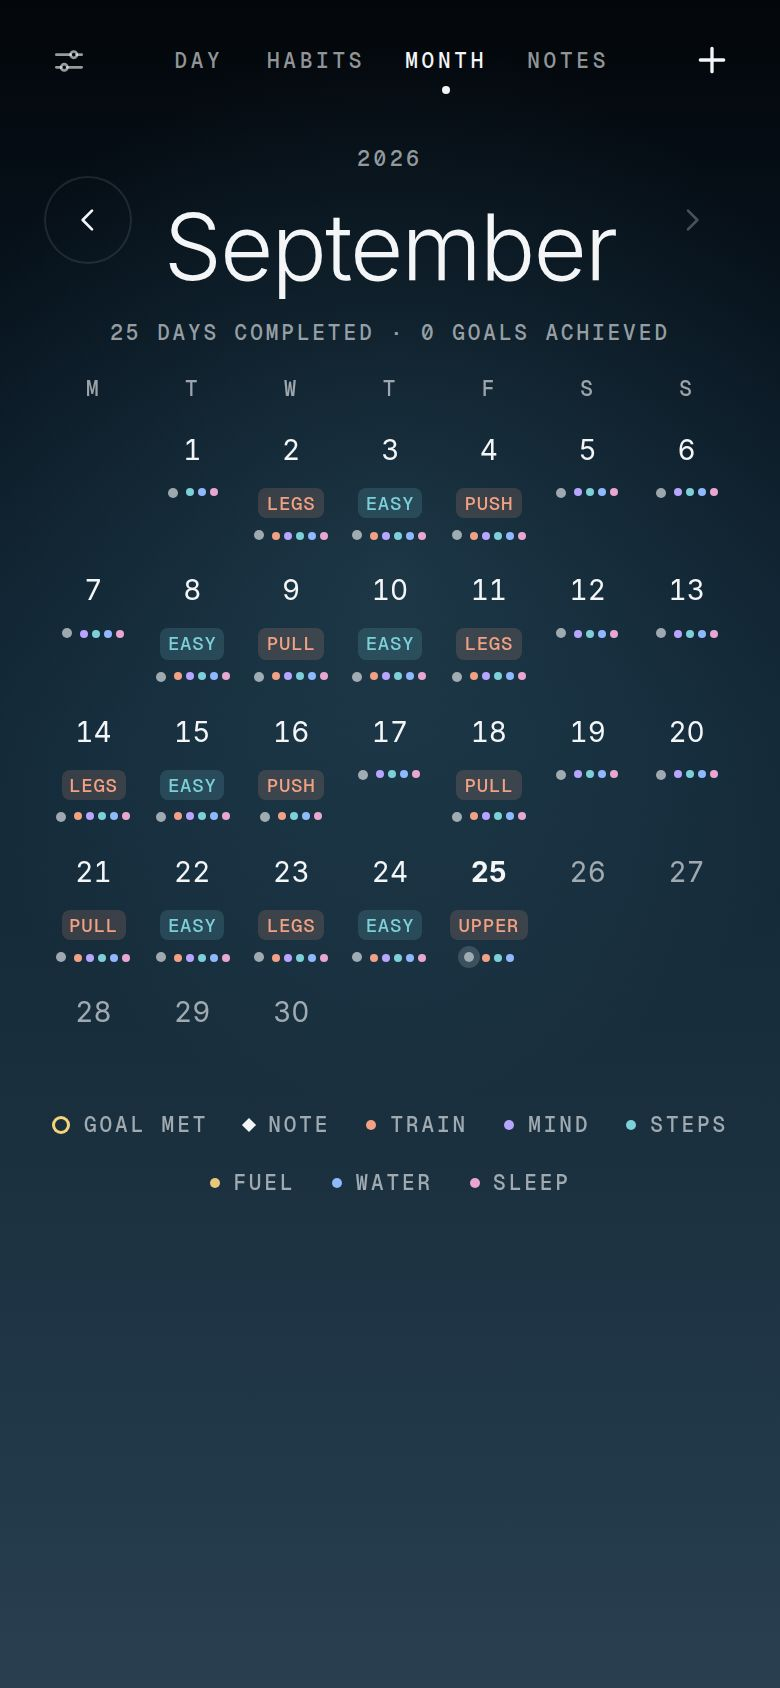
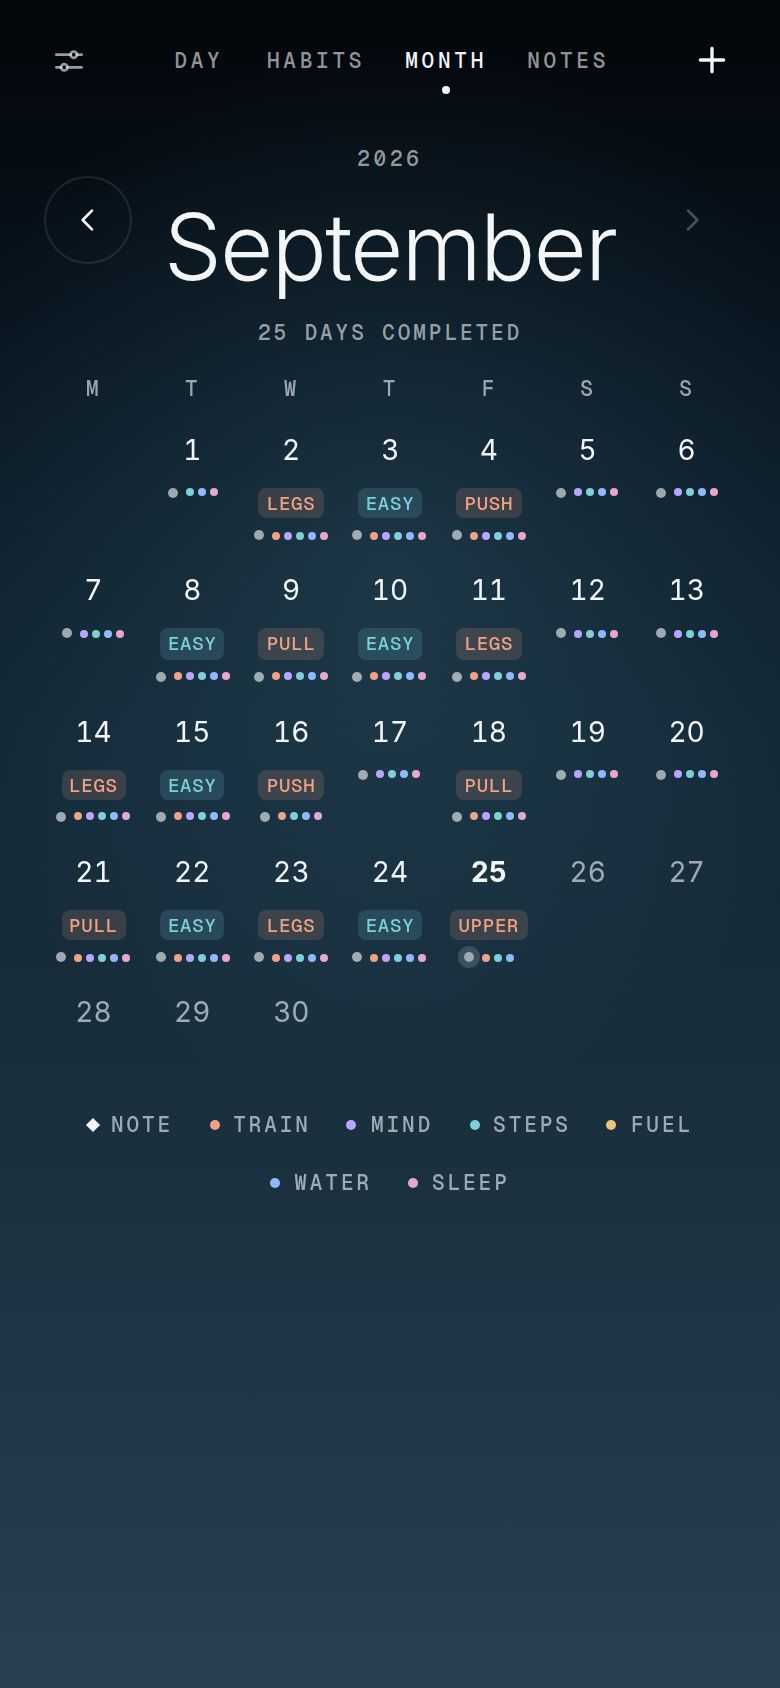
Cadence: goals met come off the calendar
No gold ring, no key entry, no count in the caption and no section on
the day sheet. Goals stay on the habits screen.

Claude-Session: https://claude.ai/code/session_014vD4rMjGhSSa8Ybsy1Zmaq

diff --git a/cadence/index.html b/cadence/index.html
@@ -379,14 +379,11 @@ textarea.cd-field { min-height: 110px; resize: vertical; }
 
 /* ── the calendar's important things ── */
 .cd-mc { position: relative; }
-/* A goal met rings the date in gold; the workout rides under it by name;
-   an important note is a small diamond in the corner. Three marks, three
-   different shapes, so none of them has to be read to be told apart. */
+/* The workout rides under the date by name; an important note is a
+   small diamond in the corner. Two marks, two shapes. */
 .cd-mc b { display: grid; place-items: center; width: 26px; height: 26px; border-radius: 50%; }
-.cd-mc.is-goal b { box-shadow: inset 0 0 0 1.5px var(--gold), 0 0 12px rgba(245, 211, 122, .45); }
 .cd-mc.has-note::after { content: ""; position: absolute; top: 5px; right: 6px; width: 5px; height: 5px; background: var(--ink); transform: rotate(45deg); }
 .cd-mw { max-width: calc(100% - 4px); overflow: hidden; text-overflow: ellipsis; white-space: nowrap; padding: 2px 4px; border-radius: 4px; font: 500 9.5px/1.2 var(--mono); letter-spacing: .04em; text-transform: uppercase; color: var(--kc); background: color-mix(in srgb, var(--kc) 16%, transparent); }
-.cd-legend i.is-ring { background: none; box-shadow: inset 0 0 0 1.5px var(--gold); width: 9px; height: 9px; }
 .cd-legend i.is-dia { border-radius: 0; background: var(--ink); transform: rotate(45deg); }
 
 /* ── notes: a line to a day, not a document ── */
@@ -411,7 +408,6 @@ textarea.cd-field { min-height: 110px; resize: vertical; }
 .cd-nstrip { display: flex; justify-content: center; gap: 6px; margin-top: 22px; }
 .cd-nstrip i { width: 5px; height: 5px; border-radius: 50%; background: var(--nil); }
 .cd-nstrip i.is-on { background: var(--ink); box-shadow: 0 0 6px rgba(243, 245, 247, .5); }
-.cd-dl-gold li > i { background: var(--gold); }
 
 /* ── toast ── */
 .cd-toast {
@@ -1545,7 +1541,6 @@ textarea.cd-field { min-height: 110px; resize: vertical; }
     if (g.t === 'week') { var c = cdWeekCount(g, iso); return c >= g.v && c - cdGoalCount(g, iso) < g.v; }
     return g.done === iso;
   }
-  function cdGoalsMet(iso) { return S.goal.filter(function (g) { return cdGoalHit(g, iso); }); }
 
   function cdPaintGoals() {
     var today = cdToday(), m0 = today.slice(0, 7) + '-01';
@@ -1735,7 +1730,7 @@ textarea.cd-field { min-height: 110px; resize: vertical; }
     var start = cdISO(new Date(y, mo, 1));
     var days = new Date(y, mo + 1, 0).getDate();
     var pad = cdDow(start);
-    var html = '', kept = 0, goals = 0, hs = cdHabits();
+    var html = '', kept = 0, hs = cdHabits();
     /* Important notes are the one thing here that can be dated ahead. */
     var noted = {};
     S.note.forEach(function (n) { if (n.i) noted[n.d] = (noted[n.d] || 0) + 1; });
@@ -1749,22 +1744,20 @@ textarea.cd-field { min-height: 110px; resize: vertical; }
       /* The habits you hit that day, each in its own colour: which
          goals were met, never whether the day was good. */
       var hit = inRec ? hs.filter(function (h) { return cdHabOn(iso, h); }) : [];
-      var met = cdGoalsMet(iso);
-      goals += met.length;
       /* The workout by name, in its kind's colour: the one thing a dot
          cannot say. The first real session, never a rest day. */
       var lift = cdSessions(iso).filter(function (x) { return !cdRestOnly(x.s); })[0];
       var pill = lift ? '<span class="cd-mw" style="--kc:var(--k-' + LIFTN[lift.s.k[0]].g + ')">' + esc(LIFTN[lift.s.k[0]].n) + '</span>' : '';
       var dots = inRec ? '<span class="cd-md" aria-hidden="true"><i class="cd-mk"></i>'
         + hit.map(function (h) { return '<i class="cd-mh" style="--kc:var(' + h.hc + ')"></i>'; }).join('') + '</span>' : '';
-      html += '<button type="button" class="cd-mc' + (fut ? ' is-future' : inRec ? '' : ' is-quiet') + (iso === today ? ' is-today' : '') + (met.length ? ' is-goal' : '') + (noted[iso] ? ' has-note' : '') + '"'
+      html += '<button type="button" class="cd-mc' + (fut ? ' is-future' : inRec ? '' : ' is-quiet') + (iso === today ? ' is-today' : '') + (noted[iso] ? ' has-note' : '') + '"'
         + ' data-day="' + iso + '" data-state="' + st + '"'
-        + ' aria-label="' + d + ' ' + MON[mo] + (inRec ? ', ' + t.kept + ' of ' + t.on + ' completed' : '') + (met.length ? ', goal met: ' + met.map(function (g) { return esc(cdGoalName(g)); }).join(', ') : '') + (lift ? ', ' + esc(cdSessName(lift.s)) : '') + (hit.length ? ', ' + hit.map(function (h) { return esc(h.n); }).join(', ') : '') + (noted[iso] ? ', important note' : '') + '">'
+        + ' aria-label="' + d + ' ' + MON[mo] + (inRec ? ', ' + t.kept + ' of ' + t.on + ' completed' : '') + (lift ? ', ' + esc(cdSessName(lift.s)) : '') + (hit.length ? ', ' + hit.map(function (h) { return esc(h.n); }).join(', ') : '') + (noted[iso] ? ', important note' : '') + '">'
         + '<b>' + d + '</b>' + pill + dots + '</button>';
     }
     for (var q = pad + days; q % 7; q++) html += '<span class="cd-mc is-pad" aria-hidden="true"></span>';
     $('cdMonG').innerHTML = html;
-    $('cdMonCap').textContent = kept + (kept === 1 ? ' day' : ' days') + ' completed · ' + goals + (goals === 1 ? ' goal' : ' goals') + ' achieved';
+    $('cdMonCap').textContent = kept + (kept === 1 ? ' day' : ' days') + ' completed';
     /* Ahead is closed unless something is waiting there: an important
        note, or a task with a date. */
     var ahead = today.slice(0, 7);
@@ -1772,7 +1765,7 @@ textarea.cd-field { min-height: 110px; resize: vertical; }
     S.goal.forEach(function (g) { if (g.t === 'task' && !g.done && g.d && g.d.slice(0, 7) > ahead) ahead = g.d.slice(0, 7); });
     $('cdMonN').disabled = monthAt >= ahead;
     $('cdMonP').disabled = monthAt <= first.slice(0, 7);
-    $('cdMonL').innerHTML = '<span><i class="is-ring"></i>Goal met</span><span><i class="is-dia"></i>Note</span>' + hs.map(function (h) {
+    $('cdMonL').innerHTML = '<span><i class="is-dia"></i>Note</span>' + hs.map(function (h) {
       return '<span><i style="--kc:var(' + h.hc + ')"></i>' + esc(h.n) + '</span>';
     }).join('');
   }
@@ -1793,19 +1786,12 @@ textarea.cd-field { min-height: 110px; resize: vertical; }
   function cdDaySheet(iso) {
     var root = el('div'), t = cdTally(iso), fut = iso > cdToday();
     root.appendChild(el('p', 'cd-cap', fut ? t.on + ' planned' : t.kept + ' of ' + t.on + ' completed · ' + cdLen(t.mins) + ' committed'));
-    var met = cdGoalsMet(iso);
-    if (met.length) {
-      root.appendChild(el('p', 'cd-lbl', 'Goals met'));
-      var gu = el('ul', 'cd-day-l cd-dl-gold');
-      met.forEach(function (g) { gu.appendChild(el('li', '', '<i></i><b>' + esc(cdGoalName(g)) + '</b><span>achieved</span>')); });
-      root.appendChild(gu);
-    }
     var ns = S.note.filter(function (n) { return n.d === iso; }).sort(function (a, b) { return b.i - a.i || b.at - a.at; });
     if (ns.length) {
       root.appendChild(el('p', 'cd-lbl', 'Notes'));
       ns.forEach(function (n) { var p = root.appendChild(el('p', 'cd-note', (n.i ? '◆ ' : '') + esc(n.t))); p.style.whiteSpace = 'pre-wrap'; });
     }
-    if (met.length || ns.length) { var bl = root.appendChild(el('p', 'cd-lbl', 'Blocks')); bl.style.margin = '26px 0 4px'; }
+    if (ns.length) { var bl = root.appendChild(el('p', 'cd-lbl', 'Blocks')); bl.style.margin = '26px 0 4px'; }
     var ul = el('ul', 'cd-day-l');
     cdOn(iso).forEach(function (b) {
       var k = cdKind(b.n), st = cdIsOff(iso, b.id) ? 'off' : cdDone(iso, b.id) ? 'completed' : fut ? 'planned' : 'not completed';

diff --git a/tests/cadence.js b/tests/cadence.js
@@ -450,7 +450,7 @@ const over = (fg, bg) => [0, 1, 2].map((i) => fg[i] * fg[3] + bg[i] * (1 - fg[3]
     await page.click('.cd-tab[data-v="mon"]');
     ok('the month is September, and the line above it is the year', (await page.textContent('#cdMonT')) === 'September'
       && (await page.textContent('#cdMonK')) === '2026');
-    ok('it counts the days completed and the goals achieved', (await page.textContent('#cdMonCap')) === '4 days completed · 0 goals achieved', await page.textContent('#cdMonCap'));
+    ok('it counts the days completed and the goals achieved', (await page.textContent('#cdMonCap')) === '4 days completed', await page.textContent('#cdMonCap'));
     ok('it draws thirty days', (await page.$$eval('.cd-mc[data-day]', (cs) => cs.length)) === 30);
     ok('the grid is a whole rectangle', (await page.$$eval('.cd-mgrid > *', (cs) => cs.length)) % 7 === 0);
     ok('a month still to come cannot be opened', await page.$eval('#cdMonN', (b) => b.disabled));
@@ -463,7 +463,7 @@ const over = (fg, bg) => [0, 1, 2].map((i) => fg[i] * fg[3] + bg[i] * (1 - fg[3]
     ok('each habit hit that day is a dot in its own colour', M['25'].h.includes('rgb(242, 161, 132)') && M['25'].h.includes('rgb(125, 207, 216)') && new Set(M['25'].h).size === M['25'].h.length, { 25: M['25'], onToday });
     ok('and a day before the record draws none', M['10'].h.length === 0, M['10']);
     const legend = await page.$$eval('#cdMonL span', (ss) => ss.map((s) => s.textContent));
-    ok('the legend names the habits, not the kinds of training', legend.join('|') === 'Goal met|Note|Train|Mind|Steps|Fuel|Water|Sleep|Cold plunge', legend);
+    ok('the legend names the habits, not the kinds of training', legend.join('|') === 'Note|Train|Mind|Steps|Fuel|Water|Sleep|Cold plunge', legend);
     ok('there is no Training tab', !(await page.$('.cd-tab[data-v="lift"]')) && (await page.$$('.cd-tab')).length === 4);
     ok('a day still to come draws no dot yet', !M['27'].k && M['27'].st === 'future', M['27']);
     const mc = await inkFloor(page, '.cd-mc[data-day] b');
@@ -525,17 +525,12 @@ const over = (fg, bg) => [0, 1, 2].map((i) => fg[i] * fg[3] + bg[i] * (1 - fg[3]
     const M = await page.$$eval('.cd-mc[data-day]', (cs) => Object.fromEntries(cs.map((c) => [c.dataset.day.slice(8), {
       goal: c.classList.contains('is-goal'), note: c.classList.contains('has-note'),
       w: c.querySelector('.cd-mw') && c.querySelector('.cd-mw').textContent, wc: c.querySelector('.cd-mw') && getComputedStyle(c.querySelector('.cd-mw')).color }])));
-    ok('20,000 steps rings the day it happened in gold', M['24'].goal, M['24']);
-    ok('the week goal rings the day it got there, and not the days before', M['23'].goal && !M['22'].goal, { 22: M['22'], 23: M['23'] });
-    ok('the task rings the day it was done', M['25'].goal, M['25']);
-    ok('a day nothing was met on is not ringed', !M['21'].goal, M['21']);
+    ok('goals met are not drawn on the calendar', Object.values(M).every((m) => !m.goal), M['24']);
     ok('a workout rides its day by name, in its kind\'s colour', M['23'].w === 'Push' && M['22'].w === 'Pull' && M['23'].wc === 'rgb(242, 161, 132)' && !M['24'].w, { 22: M['22'], 23: M['23'] });
-    ok('the caption counts the goals met', /· 3 goals achieved$/.test(await page.textContent('#cdMonCap')), await page.textContent('#cdMonCap'));
-    const ring = await page.$eval('.cd-mc[data-day="2026-09-24"] b', (b) => getComputedStyle(b).boxShadow);
-    ok('the ring is gold', /245, 211, 122/.test(ring) || /0\.96\d* 0\.82\d* 0\.47/.test(ring), ring);
+    ok('the caption does not count goals', !/goal/.test(await page.textContent('#cdMonCap')), await page.textContent('#cdMonCap'));
     await page.click('.cd-mc[data-day="2026-09-24"]');
     await sheetUp(page);
-    ok('the day reads back which goal it met', /Goals met/.test(await page.textContent('#cdShB')) && /20,000 steps/.test(await page.textContent('#cdShB')));
+    ok('and the day sheet does not list them', !/Goals met/.test(await page.textContent('#cdShB')));
     await closeSheet(page);
 
     /* Notes: a line to a day, marked important to reach the calendar. */

diff --git a/CLAUDE.md b/CLAUDE.md
@@ -4287,10 +4287,11 @@ No title, no folders — the date is the heading, it can be ahead, and
 the only mark is IMPORTANT, which is what puts a note on the calendar.
 Delete asks, because there is no bin and a note is only what you typed.
 
-**THREE MARKS ON A MONTH CELL, THREE SHAPES.** A goal met rings the
-date in gold, the workout rides under it by NAME in its kind's colour,
-an important note is a diamond in the corner. Shape tells them apart
-before colour has to. Cells stack from the top, because centred a day
+**TWO MARKS ON A MONTH CELL, TWO SHAPES.** The workout rides under the
+date by NAME in its kind's colour, an important note is a diamond in the
+corner. A gold ring for a goal met shipped for one round and was taken
+off on request, with its key, its count in the caption and its section
+on the day sheet: goals are read on the habits screen, not the month. Cells stack from the top, because centred a day
 with a workout and one without put one row's dates at two heights.
 Ahead opens only when something is waiting there.
 
